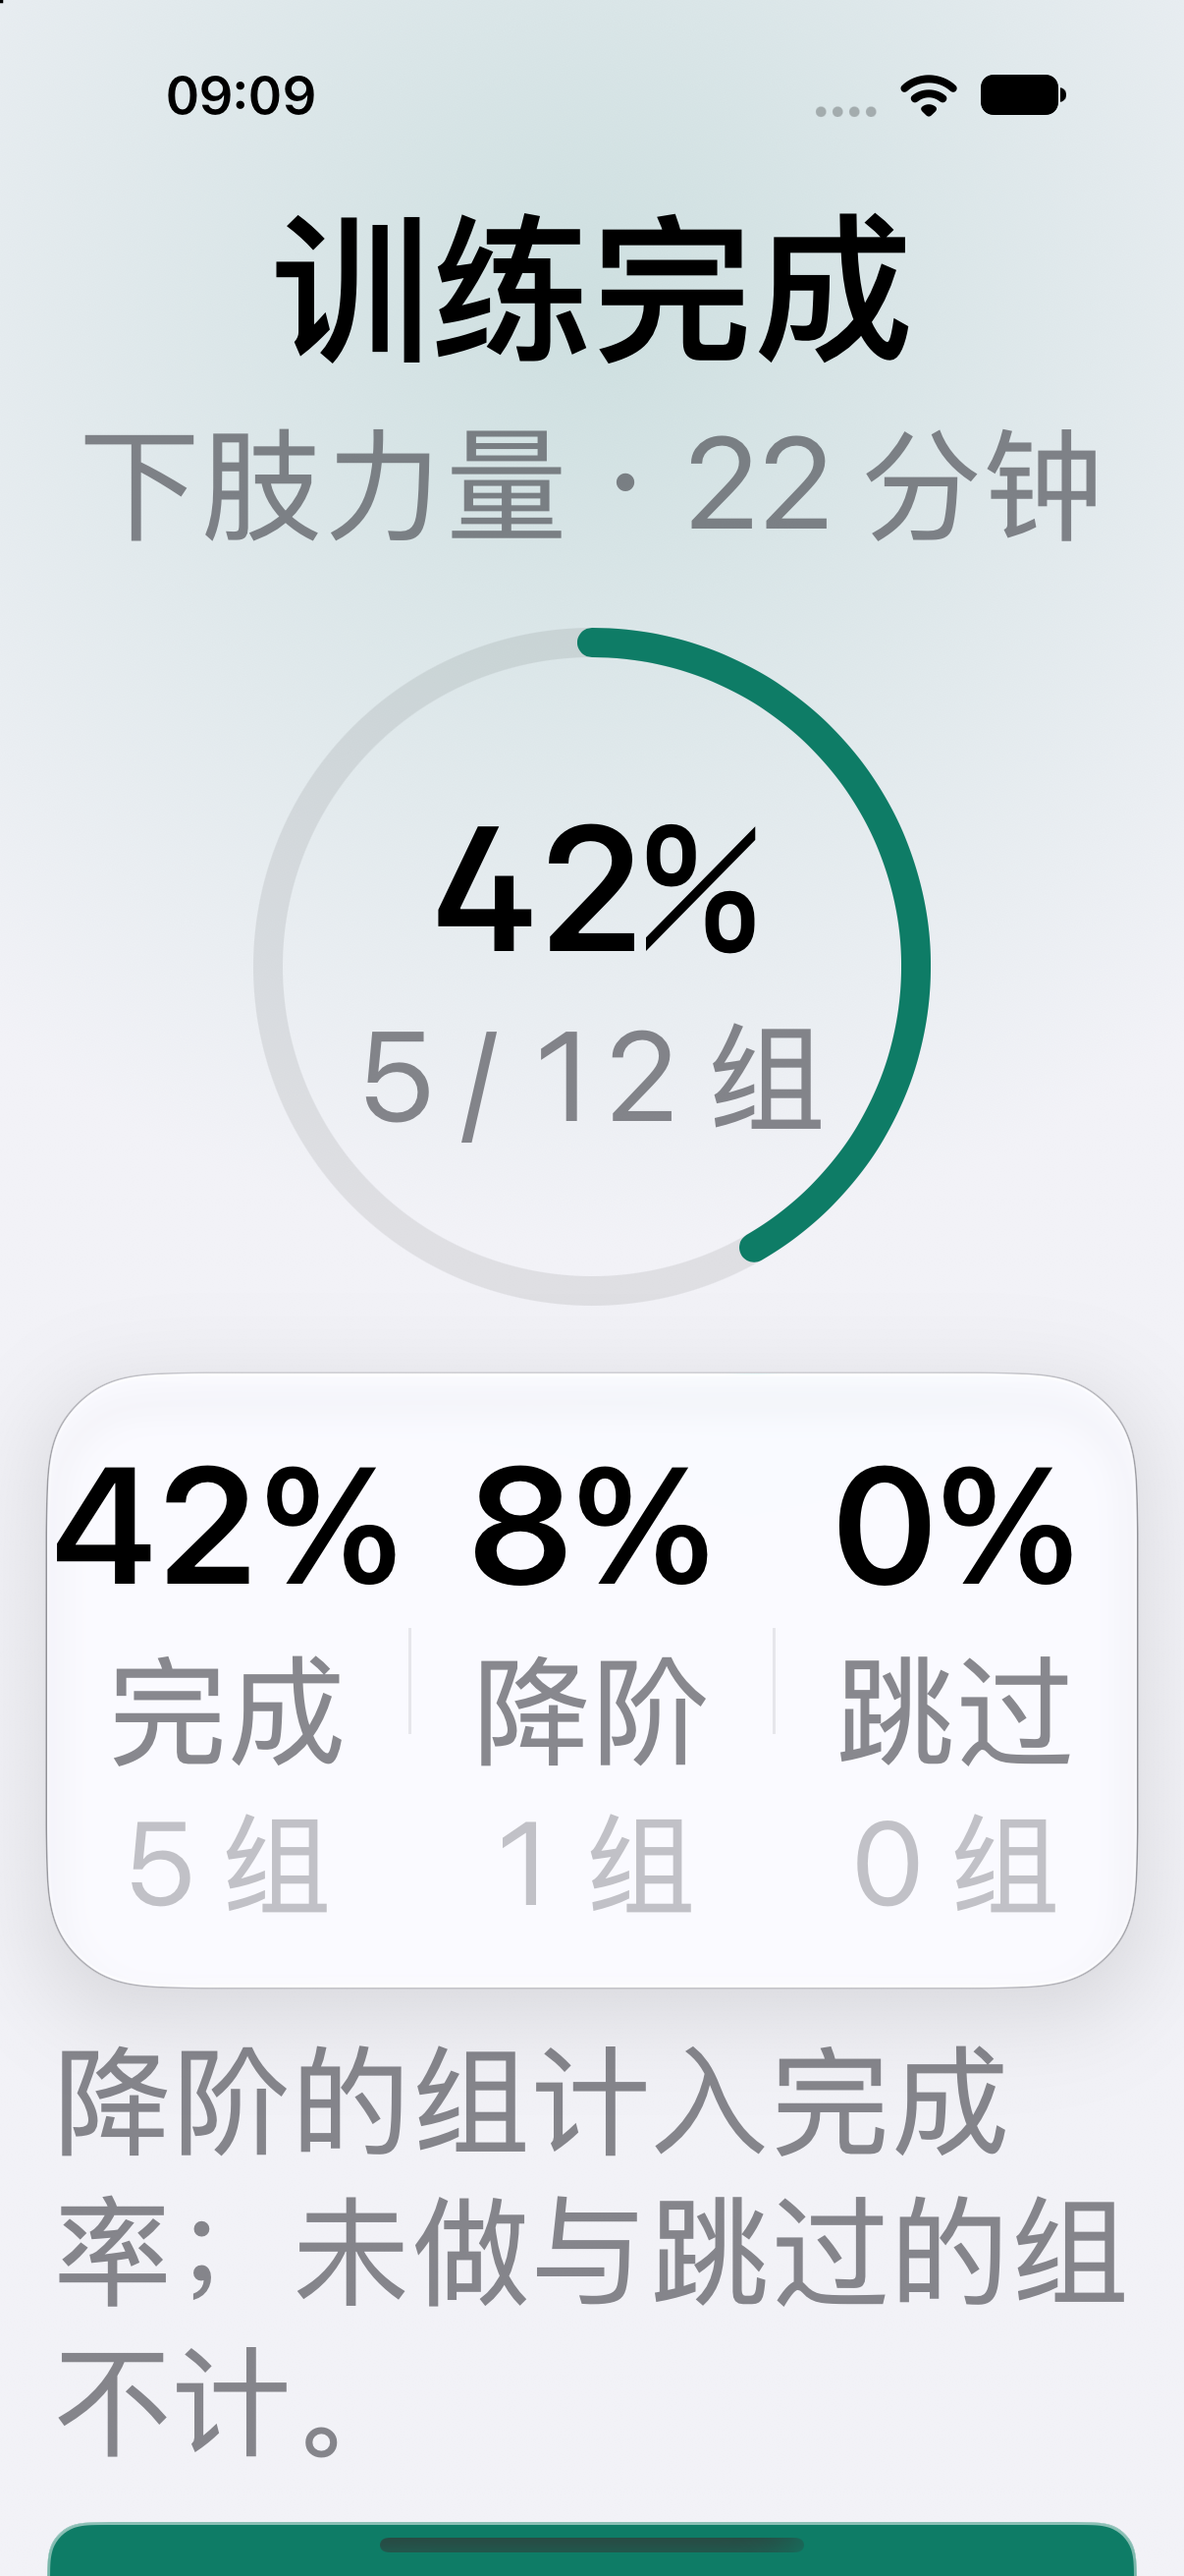
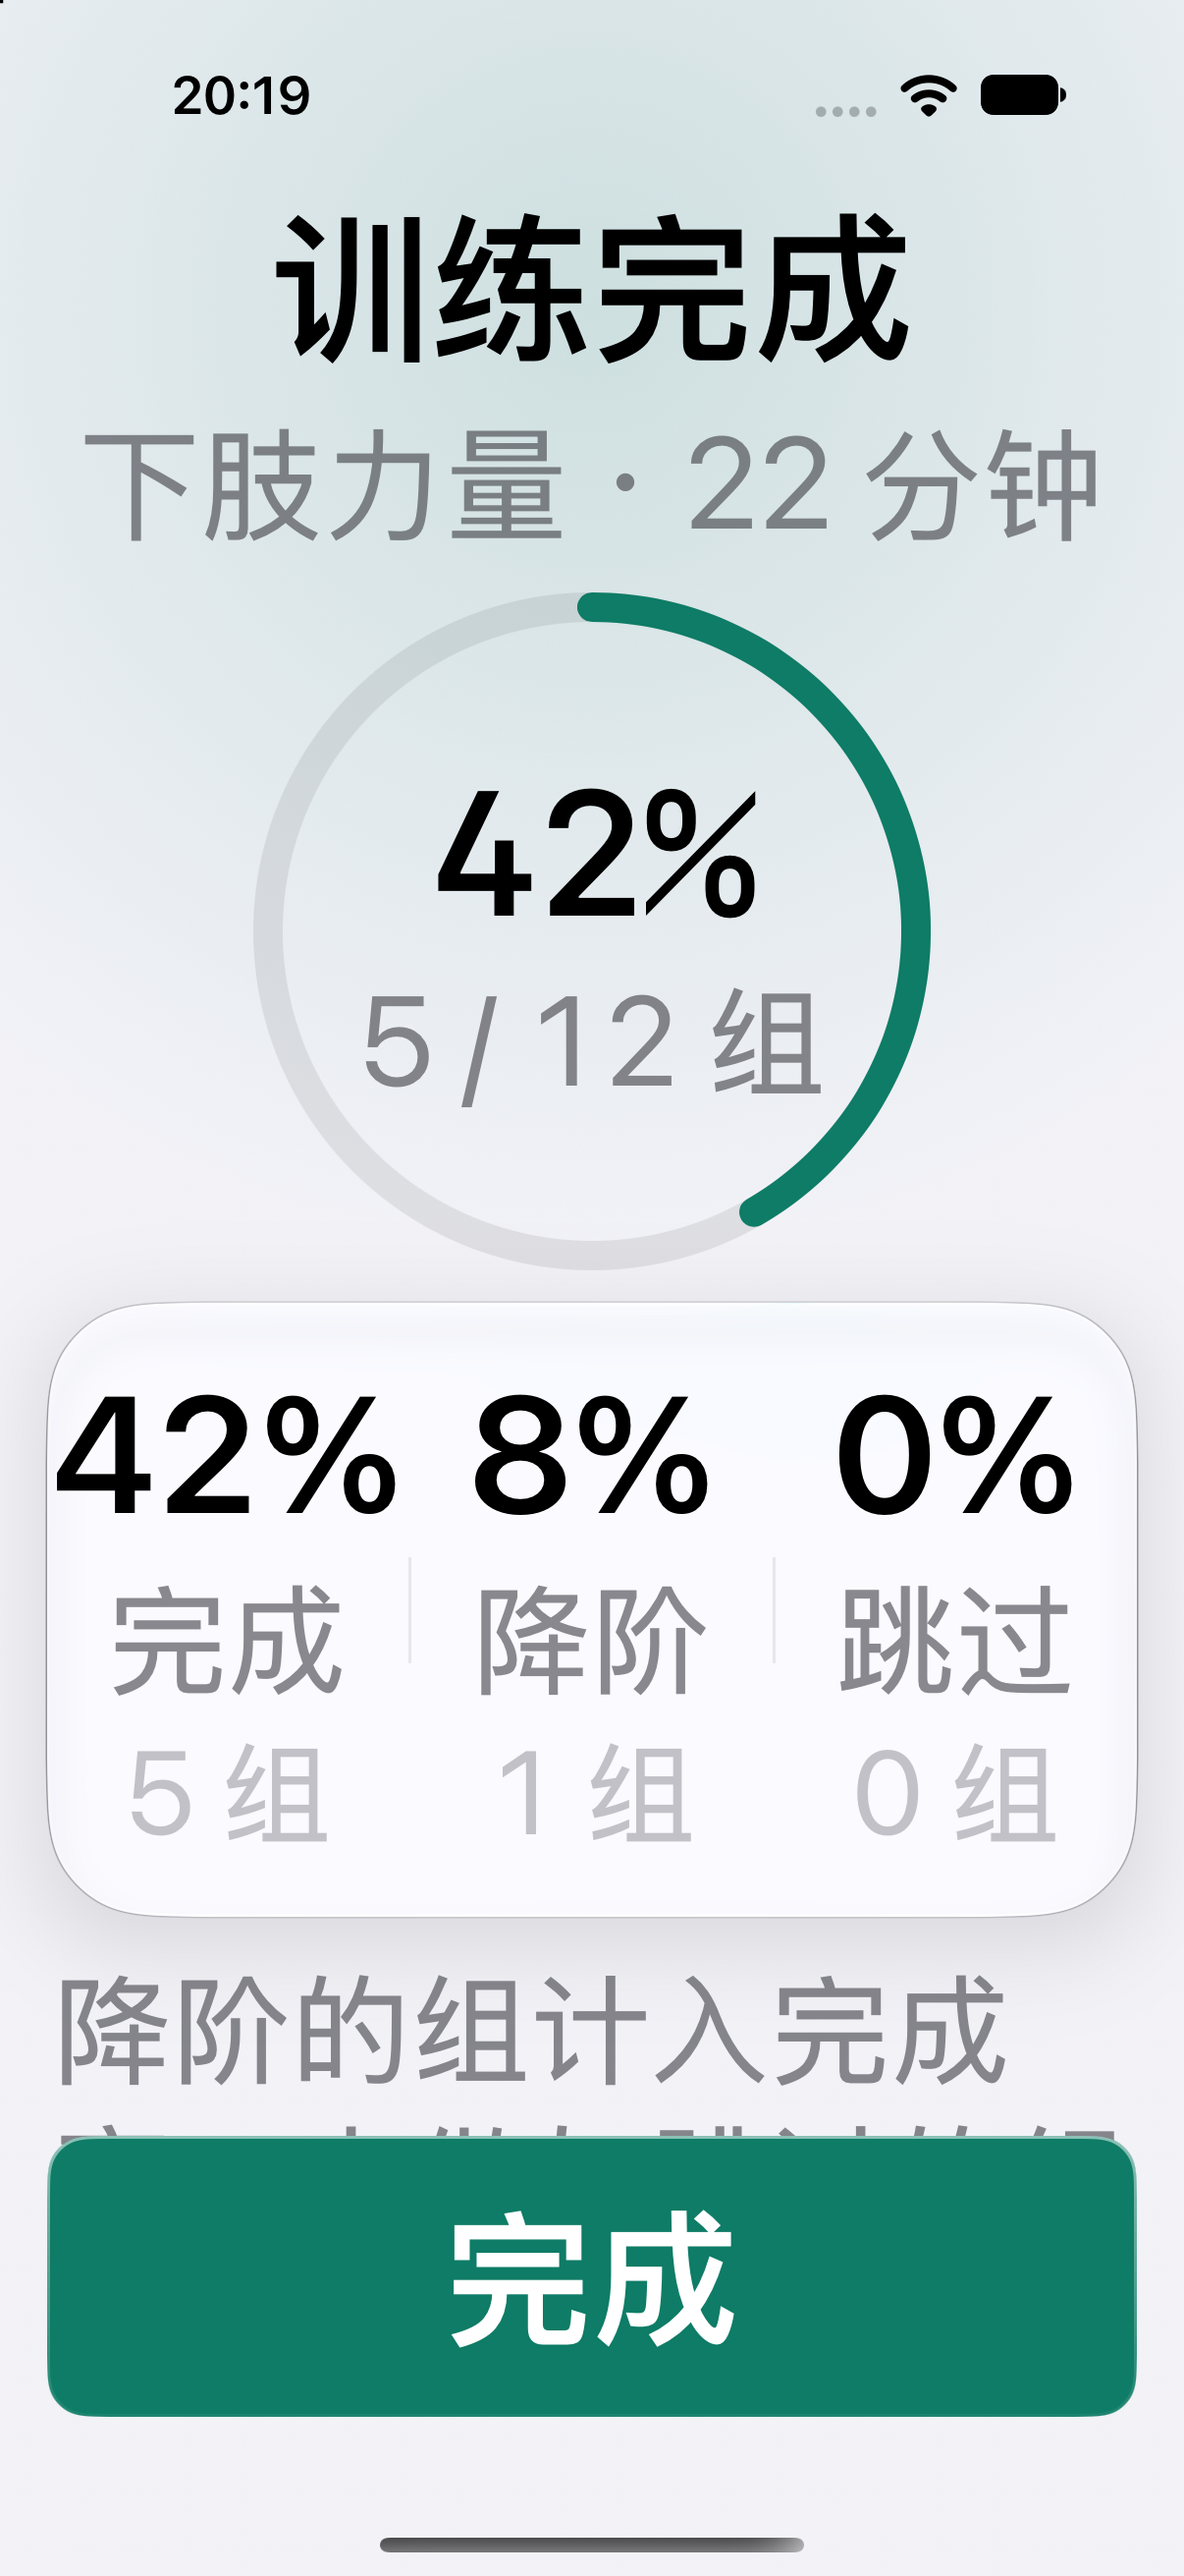
fix(workout,summary): AX3 下导航栏与底部控件可达
训练页把中间内容改成 GeometryReader + ScrollView，导航栏与底部控制卡固定，
AX 字号下不再被挤出屏幕；图示在 AX 字号缩到 132×156，标题单行缩放、关闭键
改 minWidth/minHeight + fixedSize（原来固定 44 会裁图标）。
总结页按钮改 safeAreaInset(edge: .bottom)，滚动区自动内缩，说明文字不再压按钮。

新增 UI 测试 testWorkoutControlsReachableAtAccessibilityTextSize：以
UICTContentSizeCategoryAccessibilityXXXL 启动，断言关闭/结束/完成/跳过四个控件
isHittable 且在屏幕内。

diff --git a/DongKe/Features/Workout/WorkoutView.swift b/DongKe/Features/Workout/WorkoutView.swift
@@ -6,6 +6,7 @@ struct WorkoutView: View {
     var onClose: () -> Void
 
     @Environment(\.colorScheme) private var colorScheme
+    @Environment(\.dynamicTypeSize) private var typeSize
     @State private var showSkipOptions = false
     @State private var showDowngradeOptions = false
 
@@ -16,6 +17,10 @@ struct WorkoutView: View {
         let target = prescription.target
         let perSide = target.perSide ? " / 侧" : ""
         return "\(target.doseText)\(perSide) × \(prescription.sets) 组"
+    }
+
+    private var figureSize: CGSize {
+        typeSize.isAccessibilitySize ? CGSize(width: 132, height: 156) : CGSize(width: 220, height: 260)
     }
 
     private var cueLines: [String] {
@@ -61,39 +66,45 @@ struct WorkoutView: View {
             VStack(spacing: 0) {
                 navBar
 
-                Spacer(minLength: 0)
+                GeometryReader { proxy in
+                    ScrollView {
+                        Group {
+                            if let prescription {
+                                VStack(spacing: typeSize.isAccessibilitySize ? 10 : 18) {
+                                    ExerciseFigureView(catalogId: prescription.catalogId, figureSize: figureSize)
 
-                if let prescription {
-                    VStack(spacing: 18) {
-                        ExerciseFigureView(catalogId: prescription.catalogId)
-
-                        VStack(spacing: 2) {
-                            Text(prescription.name)
-                                .font(Typography.buttonLabel)
-                            Text(doseText)
-                                .font(Typography.body)
-                                .foregroundStyle(.secondary)
-                                .fixedSize(horizontal: false, vertical: true)
-                            if cueLines.isEmpty == false {
-                                VStack(spacing: 3) {
-                                    ForEach(cueLines, id: \.self) { cue in
-                                        Text(cue)
-                                            .font(Typography.meta)
-                                            .foregroundStyle(.tertiary)
-                                            .multilineTextAlignment(.center)
+                                    VStack(spacing: 2) {
+                                        Text(prescription.name)
+                                            .font(Typography.buttonLabel)
+                                        Text(doseText)
+                                            .font(Typography.body)
+                                            .foregroundStyle(.secondary)
                                             .fixedSize(horizontal: false, vertical: true)
+                                        if cueLines.isEmpty == false {
+                                            VStack(spacing: 3) {
+                                                ForEach(cueLines, id: \.self) { cue in
+                                                    Text(cue)
+                                                        .font(Typography.meta)
+                                                        .foregroundStyle(.tertiary)
+                                                        .multilineTextAlignment(.center)
+                                                        .fixedSize(horizontal: false, vertical: true)
+                                                }
+                                            }
+                                            .padding(.top, 8)
+                                            .accessibilityIdentifier(A11y.Workout.cues)
+                                        }
                                     }
                                 }
-                                .padding(.top, 8)
-                                .accessibilityIdentifier(A11y.Workout.cues)
+                                .frame(maxWidth: .infinity)
+                                .frame(minHeight: proxy.size.height, alignment: .center)
+                            } else {
+                                finishedPlaceholder
+                                    .frame(maxWidth: .infinity, minHeight: proxy.size.height)
                             }
                         }
                     }
-                } else {
-                    finishedPlaceholder
+                    .scrollBounceBehavior(.basedOnSize)
                 }
-
-                Spacer(minLength: 0)
 
                 if !session.isResting {
                     controlDock
@@ -118,17 +129,21 @@ struct WorkoutView: View {
             Button(action: onClose) {
                 Image(systemName: Icons.close)
                     .font(Typography.buttonLabel)
-                    .frame(width: 44, height: 44)
+                    .frame(minWidth: 44, minHeight: 44)
+                    .fixedSize()
             }
             .foregroundStyle(Theme.accent(for: colorScheme))
             .accessibilityIdentifier(A11y.Workout.close)
 
-            Spacer()
+            Spacer(minLength: 8)
 
             Text(session.sessionTitle)
                 .font(Typography.buttonLabel)
+                .lineLimit(1)
+                .minimumScaleFactor(0.55)
+                .layoutPriority(0)
 
-            Spacer()
+            Spacer(minLength: 8)
 
             Button("结束") {
                 session.endWorkout()

diff --git a/DongKe/Features/Summary/WorkoutSummaryView.swift b/DongKe/Features/Summary/WorkoutSummaryView.swift
@@ -40,11 +40,11 @@ struct WorkoutSummaryView: View {
                         }
 
                         ring
-                            .padding(.top, 28)
+                            .padding(.top, typeSize.isAccessibilitySize ? 16 : 28)
 
                         statCard
                             .padding(.horizontal, 16)
-                            .padding(.top, 28)
+                            .padding(.top, typeSize.isAccessibilitySize ? 16 : 28)
 
                         Text("降阶的组计入完成率；未做与跳过的组不计。")
                             .font(.caption)
@@ -52,40 +52,50 @@ struct WorkoutSummaryView: View {
                             .fixedSize(horizontal: false, vertical: true)
                             .padding(.top, 12)
 
-                        Spacer(minLength: 16)
-
-                        Button(action: onDone) {
-                            Text("完成")
-                                .font(Typography.buttonLabel)
-                                .frame(maxWidth: .infinity)
-                                .padding(.vertical, 16)
-                        }
-                        .buttonStyle(PressableGlassStyle())
-                        .foregroundStyle(Theme.callToActionInk(for: colorScheme))
-                        .background(
-                            Theme.accent(for: colorScheme),
-                            in: RoundedRectangle(cornerRadius: 14, style: .continuous)
-                        )
-                        .overlay {
-                            RoundedRectangle(cornerRadius: 14, style: .continuous)
-                                .strokeBorder(
-                                    LinearGradient(
-                                        colors: [.white.opacity(0.52), .white.opacity(0.06)],
-                                        startPoint: .top,
-                                        endPoint: .bottom
-                                    ),
-                                    lineWidth: 1
-                                )
-                        }
-                        .padding(.horizontal, 16)
-                        .padding(.bottom, 20)
-                        .accessibilityIdentifier(A11y.Summary.done)
+                        Spacer(minLength: 0)
                     }
-                    .frame(maxWidth: .infinity, minHeight: proxy.size.height)
+                    .frame(maxWidth: .infinity, minHeight: contentMinHeight(proxy.size.height))
                 }
                 .scrollBounceBehavior(.basedOnSize)
+                .safeAreaInset(edge: .bottom) {
+                    doneButton
+                }
             }
         }
+    }
+
+    private func contentMinHeight(_ available: CGFloat) -> CGFloat {
+        typeSize.isAccessibilitySize ? 0 : max(0, available - 96)
+    }
+
+    private var doneButton: some View {
+        Button(action: onDone) {
+            Text("完成")
+                .font(Typography.buttonLabel)
+                .frame(maxWidth: .infinity)
+                .padding(.vertical, 16)
+        }
+        .buttonStyle(PressableGlassStyle())
+        .foregroundStyle(Theme.callToActionInk(for: colorScheme))
+        .background(
+            Theme.accent(for: colorScheme),
+            in: RoundedRectangle(cornerRadius: 14, style: .continuous)
+        )
+        .overlay {
+            RoundedRectangle(cornerRadius: 14, style: .continuous)
+                .strokeBorder(
+                    LinearGradient(
+                        colors: [.white.opacity(0.52), .white.opacity(0.06)],
+                        startPoint: .top,
+                        endPoint: .bottom
+                    ),
+                    lineWidth: 1
+                )
+        }
+        .padding(.horizontal, 16)
+        .padding(.top, 12)
+        .padding(.bottom, 20)
+        .accessibilityIdentifier(A11y.Summary.done)
     }
 
     private var ring: some View {

diff --git a/DongKeUITests/DongKeChainsUITests.swift b/DongKeUITests/DongKeChainsUITests.swift
@@ -107,6 +107,24 @@ final class DongKeChainsUITests: DongKeUITestCase {
         XCTAssertTrue(skipRest.waitForExistence(timeout: 10), "减半后没有进入组间休息")
     }
 
+    func testWorkoutControlsReachableAtAccessibilityTextSize() {
+        launchApp(
+            ["DK_COMPLETE_ONBOARDING": "1", "DK_PREVIEW": "workout"],
+            arguments: ["-UIPreferredContentSizeCategoryName", "UICTContentSizeCategoryAccessibilityXXXL"]
+        )
+
+        let close = button(A11y.Workout.close)
+        let end = button(A11y.Workout.end)
+        let complete = button(A11y.Workout.completeSet)
+        let skip = button(A11y.Workout.skipSet)
+
+        for element in [close, end, complete, skip] {
+            XCTAssertTrue(element.isHittable, "最大辅助字号下这个控件点不到：\(element)")
+        }
+        XCTAssertTrue(app.frame.contains(end.frame), "「结束」超出屏幕")
+        XCTAssertTrue(app.frame.contains(skip.frame), "「跳过本组」超出屏幕")
+    }
+
     func testWorkoutCloseKeepsResumeCard() {        launchApp(["DK_COMPLETE_ONBOARDING": "1"])
 
         tap(button(A11y.Today.start))

diff --git a/DongKeUITests/DongKeUITestCase.swift b/DongKeUITests/DongKeUITestCase.swift
@@ -14,12 +14,18 @@ class DongKeUITestCase: XCTestCase {
     }
 
     @discardableResult
-    func launchApp(_ environment: [String: String] = [:], file: StaticString = #filePath, line: UInt = #line) -> XCUIApplication {
+    func launchApp(
+        _ environment: [String: String] = [:],
+        arguments: [String] = [],
+        file: StaticString = #filePath,
+        line: UInt = #line
+    ) -> XCUIApplication {
         let app = XCUIApplication()
         app.launchEnvironment["DK_UI_TEST"] = "1"
         for (key, value) in environment {
             app.launchEnvironment[key] = value
         }
+        app.launchArguments += arguments
         app.launch()
         self.app = app
         XCTAssertTrue(app.wait(for: .runningForeground, timeout: 20), "App 没能进到前台", file: file, line: line)
